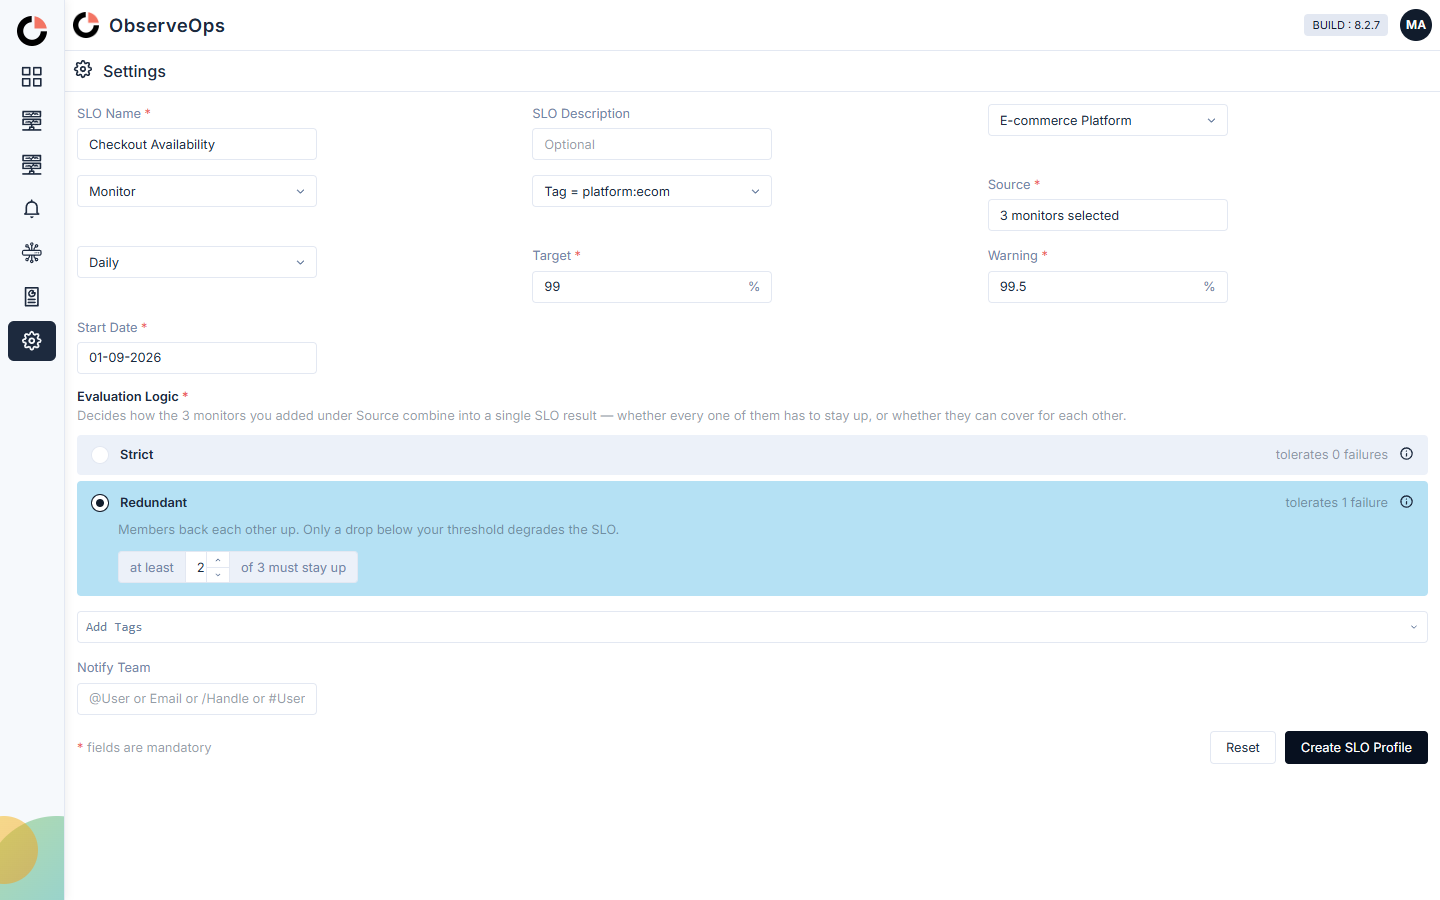
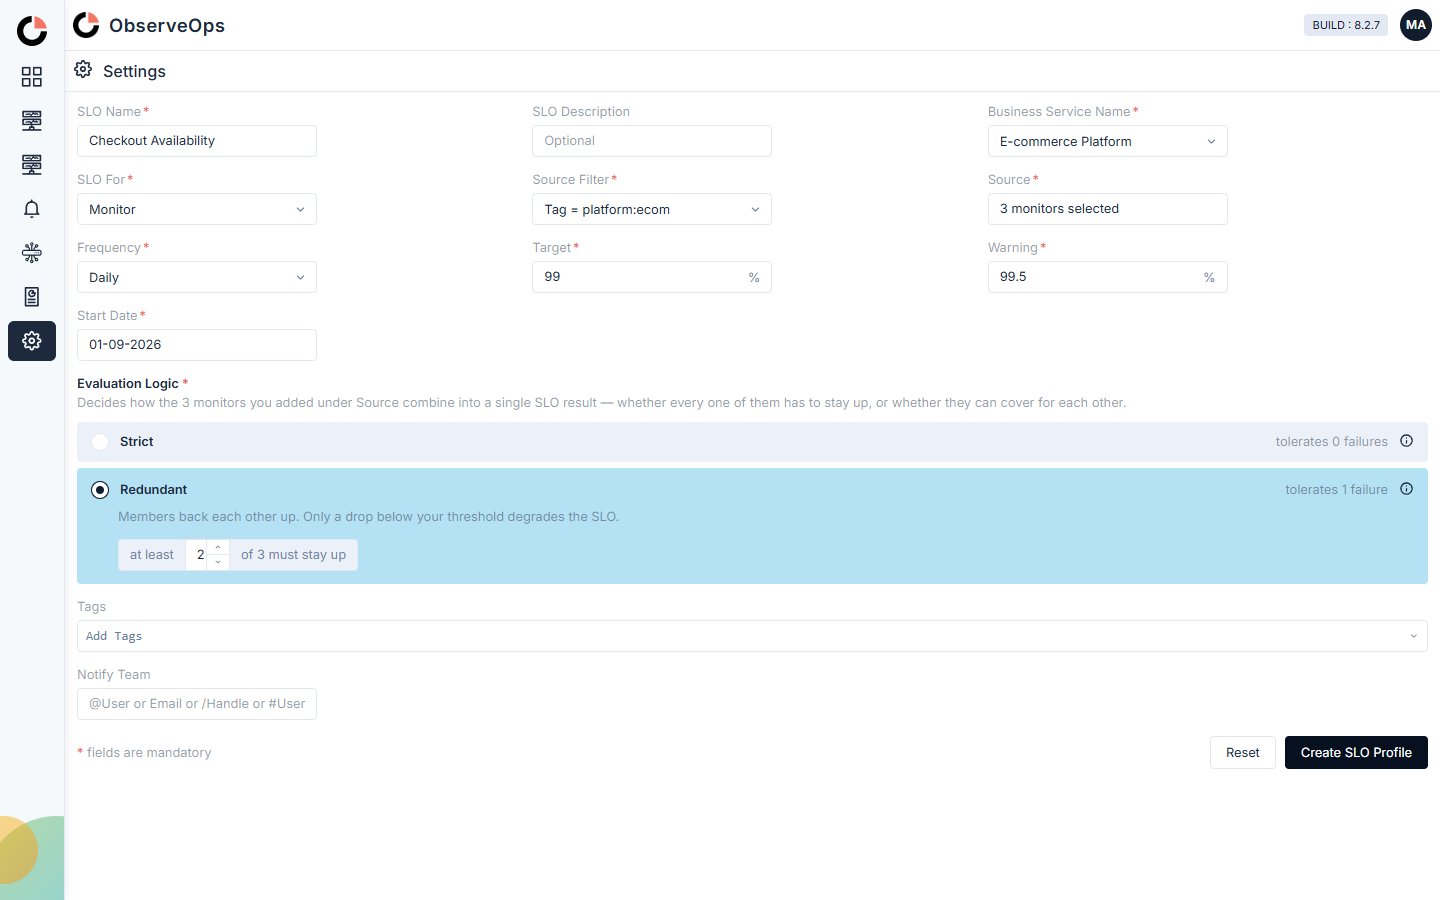
fix(slo): label every field with text that actually renders
obs-select has no label attribute and neither does obs-tags; obs-input
does. Four selects therefore rendered with no label at all, and the unit
test passed because the attribute was present in the markup. External
<label for> now covers every field, matching wan-link-discovery, whose
own source already carried a comment saying obs-select has no label.

The probe now asserts labels are PAINTED, since a DOM-reading test
cannot catch this class of defect.

Claude-Session: https://claude.ai/code/session_01FqGHHgiXHA6aMRMxv489J6

diff --git a/src/slo-profile/createForm.js b/src/slo-profile/createForm.js
@@ -5,28 +5,67 @@ import { renderEvaluationLogic } from './evaluationLogic.js'
 
 const SERVICES = ['E-commerce Platform', 'Network Core', 'Branch Connectivity', 'SLO FOR MAXIS', 'ABC']
 
+/** obs-select has no `label` attribute — obs-input does, obs-select does not (see
+ *  src/wan-link-discovery/createForm.js). Neither does obs-tags. So every field on this form draws
+ *  its own external label, the same way, rather than mixing an internal obs-input label with bare
+ *  unlabelled selects. */
+const label = (id, text, { required = false } = {}) =>
+  `<label class="slo-field__label" for="${id}">${text}${required ? '<span class="slo-field__req">*</span>' : ''}</label>`
+
 export function renderCreateForm(host, { onCancel }) {
   host.innerHTML = `
     <div class="slo-form">
       <div class="slo-form__grid">
-        <div data-field="name"><obs-input label="SLO Name" required value="Checkout Availability"></obs-input></div>
-        <div data-field="description"><obs-input label="SLO Description" placeholder="Optional"></obs-input></div>
-        <div data-field="service">
-          <obs-select id="slo-bs" label="Business Service Name" required searchable
+        <div data-field="name" class="slo-field">
+          ${label('slo-name', 'SLO Name', { required: true })}
+          <obs-input id="slo-name" required value="Checkout Availability"></obs-input>
+        </div>
+        <div data-field="description" class="slo-field">
+          ${label('slo-description', 'SLO Description')}
+          <obs-input id="slo-description" placeholder="Optional"></obs-input>
+        </div>
+        <div data-field="service" class="slo-field">
+          ${label('slo-bs', 'Business Service Name', { required: true })}
+          <obs-select id="slo-bs" required searchable
                       can-user-add-options add-label="Create Business Service"
                       value="E-commerce Platform"></obs-select>
         </div>
-        <div data-field="for"><obs-select label="SLO For" required value="Monitor"></obs-select></div>
-        <div data-field="filter"><obs-select label="Source Filter" required value="Tag = platform:ecom"></obs-select></div>
-        <div data-field="source"><obs-input label="Source" required readonly value="3 monitors selected"></obs-input></div>
-        <div data-field="frequency"><obs-select label="Frequency" required value="Daily"></obs-select></div>
-        <div data-field="target"><obs-input label="Target" required suffix="%" value="99"></obs-input></div>
-        <div data-field="warning"><obs-input label="Warning" required suffix="%" value="99.5"></obs-input></div>
-        <div data-field="start"><obs-input label="Start Date" required value="01-09-2026"></obs-input></div>
+        <div data-field="for" class="slo-field">
+          ${label('slo-for', 'SLO For', { required: true })}
+          <obs-select id="slo-for" required value="Monitor"></obs-select>
+        </div>
+        <div data-field="filter" class="slo-field">
+          ${label('slo-filter', 'Source Filter', { required: true })}
+          <obs-select id="slo-filter" required value="Tag = platform:ecom"></obs-select>
+        </div>
+        <div data-field="source" class="slo-field">
+          ${label('slo-source', 'Source', { required: true })}
+          <obs-input id="slo-source" required readonly value="3 monitors selected"></obs-input>
+        </div>
+        <div data-field="frequency" class="slo-field">
+          ${label('slo-frequency', 'Frequency', { required: true })}
+          <obs-select id="slo-frequency" required value="Daily"></obs-select>
+        </div>
+        <div data-field="target" class="slo-field">
+          ${label('slo-target', 'Target', { required: true })}
+          <obs-input id="slo-target" required suffix="%" value="99"></obs-input>
+        </div>
+        <div data-field="warning" class="slo-field">
+          ${label('slo-warning', 'Warning', { required: true })}
+          <obs-input id="slo-warning" required suffix="%" value="99.5"></obs-input>
+        </div>
+        <div data-field="start" class="slo-field">
+          ${label('slo-start', 'Start Date', { required: true })}
+          <obs-input id="slo-start" required value="01-09-2026"></obs-input>
+        </div>
         <div data-field="evaluation" class="slo-form__span" id="slo-evaluation"></div>
-        <div data-field="tags" class="slo-form__span"><obs-tags label="Tags" type="loose"></obs-tags></div>
-        <div data-field="notify" class="slo-form__span">
-          <obs-input label="Notify Team" placeholder="@User or Email or /Handle or #User Profile"></obs-input>
+        <div data-field="tags" class="slo-field slo-form__span">
+          ${label('slo-tags', 'Tags')}
+          <obs-tags id="slo-tags" type="loose"></obs-tags>
+        </div>
+        <div data-field="notify" class="slo-field slo-form__span">
+          ${label('slo-notify', 'Notify Team')}
+          <obs-input id="slo-notify" placeholder="@User or Email or /Handle or #User Profile"></obs-input>
         </div>
       </div>
       <footer class="slo-form__actions">

diff --git a/src/slo-profile/createForm.test.js b/src/slo-profile/createForm.test.js
@@ -5,8 +5,8 @@ describe('create slo profile form', () => {
   let host
   beforeEach(() => { host = document.createElement('div'); renderCreateForm(host, { onCancel() {} }) })
 
-  it('carries the shipped fields', () => {
-    const labels = [...host.querySelectorAll('obs-input, obs-select')].map((e) => e.getAttribute('label'))
+  it('labels every field with text a user can actually see', () => {
+    const labels = [...host.querySelectorAll('.slo-form__grid label')].map((l) => l.textContent.trim().replace(/\s*\*$/, ''))
     for (const field of ['SLO Name', 'SLO Description', 'Business Service Name', 'SLO For',
       'Source Filter', 'Source', 'Frequency', 'Target', 'Warning', 'Start Date']) {
       expect(labels).toContain(field)

diff --git a/src/slo-profile/sloProfile.css b/src/slo-profile/sloProfile.css
@@ -77,6 +77,23 @@
 
 .slo-form__span { grid-column: 1 / -1; }
 
+.slo-field {
+  display: flex;
+  flex-direction: column;
+  min-width: 0;
+}
+
+/* Consumer-drawn labels for obs-select and obs-tags, neither of which ships a `label` of its own —
+   matched to obs-input's own label so every field on the grid reads as the same kind of field. See
+   src/wan-link-discovery/wanLinkDiscovery.css .wld-field__label for the same treatment there. */
+.slo-field__label {
+  display: block;
+  margin-block-end: 6px;
+  color: var(--input-placeholder-color);
+}
+
+.slo-field__req { color: var(--secondary-red); margin-inline-start: 2px; }
+
 .slo-form__actions {
   display: flex;
   align-items: center;
